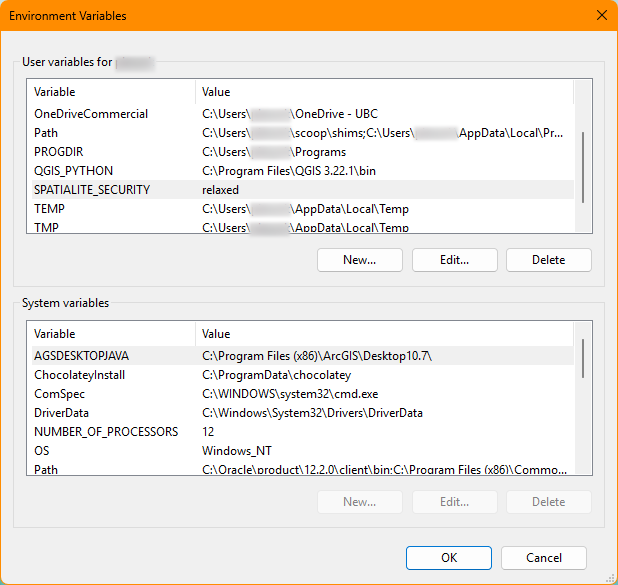
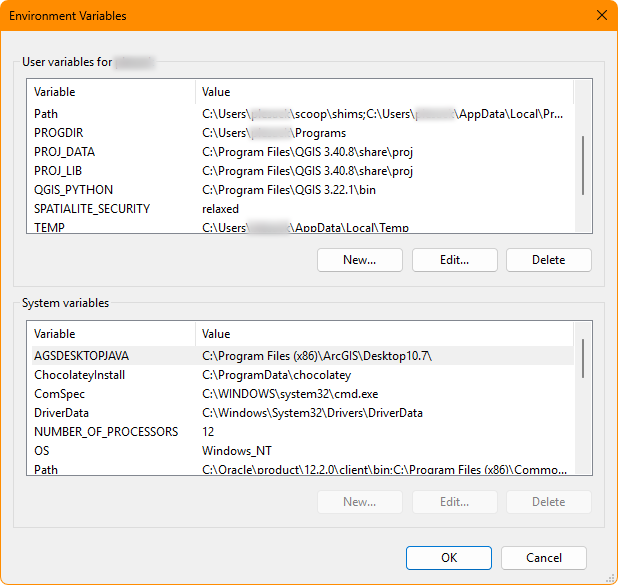
Incremental update

diff --git a/docs/projections.md b/docs/projections.md
@@ -1,0 +1,75 @@
+---
+layout: default
+title: Projections and Spatial References 
+nav_order: 12
+---
+# The earth is not flat 
+
+Although the earth is round(ish), the way Spatialite (and really almost all geographic software works) is by calculating things in (largely) two dimensions. This means that the sphere is flattened out, like taking an orange, unpeeling it (technically an optional step), and making it flat. This has an effect on calculations, because doing this means that not all of distance, area and shape can be preserved at the same time. Differences may be negligible if you're examining small areas, but much more pronounced for large areas. 
+
+The correspondence between the points on the intact orange and and the flattened orange defines the projection/spatial reference system.
+
+## Displaying and working with projections
+
+You can see what projection your data layer has by a simple commmand. "SRID" seems an unintuitive abbreviation until you realize it stands for "spatial reference identification".
+
+
+```sql
+--Show the projection of the layer
+SELECT SRID(geom) FROM prop_parcel_polygons LIMIT 4;
+```
+
+You will see that it is technically possible to store each piece of data in a different projection. Just because you can, does not mean you *should*. The overwhelming majority of data sets will have the same projection for each piece of data, at least within a single table.
+
+There are many (many) map projections. This is a fine source of reference: [EPSG definitions](https://spatialreference.org){:target="_blank"}. It's not exhaustive, because it's possible to define your own projections too.
+
+{: .important}
+If you need to transform your coordinate systems, you *must* have a table called **spatial_ref_sys**. If you don't have that table, the transformations won't work.
+
+If this doesn't work check to see if the spatial_ref_sys  table is there. It probably isn't. Then you must create it!
+
+Thankfully, this is easy.
+```sql
+select InitSpatialMetadata();
+```
+The function creates any necessary tables, but they won't be visible in the schema viewer until you save and reopen the database. But it will still work even if the tables are not not visible. You can verify that the command worked by seeing if the tables are present, because they will be listed in the (hidden by default) `sqlite_master` table:
+
+Without the spatial metadata, coordinate transformations will not work!
+
+`select * from sqlite_master where name like '%spatial%'`
+
+### Why projections are extremely important.
+
+If you've never used map projections before, you may be scratching your head by now as to what this really means. Let's use a simple ecample of why projections matter.
+
+* Your GeoPackage comes with data in a specific projection. The example above using SRID() produced a value of 3005, which corresponds to [BC Albers Projection](https://spatialreference.org/ref/epsg/3005/){:target="_blank"}. If you look at that page, you'll see that the units used (UoM) are metres.
+
+* Imagine you have another set of data which you have imported. This set has latitude and longitude points. This type of data is "unprojected", meaning it gives spherical coordinates. While there are many unprojected coordinate systems, most commonly this data is in [WGS 84 (EPSG:4326)](https://spatialreference.org/ref/epsg/4326/){:target="_blank"}. The units of measure are degrees.
+
+If you want to relate spatial attributes between layers, they need to use the same frame of reference, otherwise the results may be meaningless, "This school is 20 degrees away". In a GIS application like, say, QGIS, coordinate transformations are often done automatically. But you are not using GIS software, so you have to do it yourself. Fortunately, this is not particularly difficult to do. 
+
+```sql
+-- Reproject geometry to EPSG:4326 (WGS 84) 
+SELECT transform(castAutomagic(geom), 4236) FROM prop_parcel_polygons LIMIT 4;
+```
+
+This will transform the geometry form one projection to another. When you run this query, you can't tell though, because it's just outputting a binary blob. But trust me, you have. But trust is in short supply these days.
+
+```sql
+--Verify that your transformation worked
+SELECT x(transform(centroid(castAutomagic(geom)), 4236)) FROM prop_parcel_polygons LIMIT 10
+```
+
+You may note the "centroid" portion. The parcel polygons are, well, polygons, so they don't have single x (or longitude) value. This demonstration took the x-value of the centre point. And if if still doesn't make any sense the [queries](queries.md) page goes into more detail.
+
+{: .important}
+>There are many ways to flatten an orange. Similarly, there are just as many ways to create a map projection. When you're working with different sets of data, you should ensure that they all use the same projection, because if they don't, any calculations may be off. Everyone should flatten their oranges in the same way.
+>
+>Map projections are a large and complex subject, but if you just remember that everything should have the same frame of reference you've taken the hardest, largest step.
+
+### Bonus section
+
+Not all analyses take place on the earth, and even non-terrestrial objects have projections. Because it's possible to define your own projections if you are so inclined, the number of sources of potential errors are limitless. This is why data science consists of largely of banging your head into the corner of a desk.
+
+
+

diff --git a/docs/premade_geopackages.md b/docs/premade_geopackages.md
@@ -4,6 +4,8 @@ title: Using DB Browser with premade GeoPackages
 nav_order: 10
 ---
 
+# Using premade GeoPackages
+
 We will first start off by understanding how to use an already existing GeoPackage database. This is not a tutorial for the [DB Browser](https://sqlitebrowser.org) interface; it assumes you can use the interface for basic operations like entering SQL, etc. All of the functions are available via reasonably obvious buttons or through menus.
 
 *1*{: .circle .circle-blue} Open an existing geopackage database with File/Open; the images and examples in this tutorial use a geopackage called `property-parcel-polygons.gpkg`, which, if you have cloned the Github repository, is at `src/data`.
@@ -64,38 +66,6 @@ SELECT GetGpkgMode(), GetGpkgAmphibiousMode();
 ```
 Generally speaking, start with enableGpkgMode() to ensure maximum compatibility. Over the course of time, you may find that pure GeoPackage mode can't be enabled. This is because of the intermingling of functions between Spatialite and the Geopackage standard. It's not an enormous problem, and you can enable the amphibious mode if you have to and things will still work just fine.
 
-Find the projection of your data:
-
-```sql
---Show the projection of the layer
-SELECT SRID(geom) FROM prop_parcel_polygons LIMIT 4;
-```
-
-There are many (many) map projections. This is a fine source of reference: [EPSG definitions](spatialreference.org). It's not exhaustive, because it's possible to define your own projections too.
-
-{: .important}
-If you need to transform your coordinate systems, you *must* have a table called **spatial_ref_sys**. If you don't have that table, the transformations won't work.
-
-If this doesn't work check to see if the spatial_ref_sys  table is there. It probably isn't. Then you must create it!
-
-Thankfully, this is easy.
-```sql
-select InitSpatialMetadata();
-```
-The function creates any necessary tables, but they won't be visible in the schema viewer until you save and reopen the database. But it will still work even if the tables are not not visible. You can verify that the command worked by seeing if the tables are present, because they will be listed in the (hidden by default) `sqlite_master` table:
-
-Without the spatial metadata, coordinate transformations will not work!
-
-`select * from sqlite_master where name like '%spatial%'`
-
-
-Why? Discussion of coordinate systems, especially WGS-84 and lat/long
-
-In a GIS application, this is normally built-in to the software. But you are not using GIS software.
-
-```sql
--- Reproject geometry to EPSG:4326 (WGS 84) 
-SELECT transform(castAutomagic(geom), 4236) FROM prop_parcel_polygons;
-```
-
+{: .note}
+This is actually the case with the sample database; if you try you will see that GetGpkgMode always returns 0. This is because it was laboriously converted to a GeoPackage manually for the purposes of this tutorial.
 

diff --git a/docs/queries.md b/docs/queries.md
@@ -3,17 +3,46 @@ layout: default
 title:  Queries part 1 
 nav_order: 15 
 ---
-## Basic queries
-Basic example
+# Basic queries
+
+Technically, the commands from  [projections](projections.md) page constitute a SQL query. But as queries go, they didn't produce a lot of data that would be useful in a real-life situation besides verifying that the software workd. 
+
+A SQL query is normally designed to extract some sort of pertinent information from your collection of data. SQL is somewhat like natural language, which means, in practice, that it's not actually natural language but close enough that errors are hard to find because of your order word.
+
+If you have no knowledge of SQL, you may want to have a look at this [SQL tutorial](https://www.w3schools.com/sql/default.asp). These and following sections will mostly focus on Spatialite/GeoPackage specific language or less-common SQL.
+
+## A very basic query
+
+Here's a somewhat useful query that shows the latitude of parcels.
 
 ```sql
 /*
 Select the centroid points of parcels and
 return only the longitudes as degrees
 */
-SELECT x(centroid(transform(castautomagic(geom),4326))) AS long
+SELECT X(Centroid(Transform(CastAutomagic(geom),4326))) AS long
 FROM prop_parcel_polygons LIMIT 3;
 ```
+
+Let's examine this in a little more detail. SQL, like written English, is evaluated from left to write. But because this is a computer language, not always.
+
+The key here is `X(Centroid(Transform(CastAutomagic(geom),4326)))`. This is a set of Spatialite functions all nested within each other. It's important to remember that the order of operations inside functions is from the inside out. That is, in this order
+
+* CastAutomagic()
+* Transform()
+* Centroid()
+* X()
+
+
+CastAutomagic transforms the geometry so that it will work *regardless* of whether it's GeoPackage geometry or Spatialite geometry. That output is passed to Transform, which converts it EPSG:4326 projection (WGS 84, or latitude/longitude unprojected data). That is then passed to the Centroid function, which calculates the Centroid or centre point of the polygon. Finally, the x dimension (or longitude) is extracted from the centroid.
+
+Next is **AS**, which is your friend while using Spatialite. The AS clause will rename the column to **long**, instead of using its default value of **X(Centroid(Transform(CastAutomagic(geom),4326)))**, which I think we can all agree is a terrible name for a column.
+
+X(Centroid(Transform(CastAutomagic(geom),4326)))
+
+
+
+
 
 Order of operations
 Discuss

diff --git a/docs/faq_troubleshooting.md b/docs/faq_troubleshooting.md
@@ -1,0 +1,35 @@
+---
+layout: default
+title: FAQ & Troubleshooting 
+nav_order: 35 
+---
+
+# Frequently asked questions & troubleshooting
+
+### My query apparently runs without error, but the window displays no results
+
+
+Even if Spatialite appears correctly installed, (ie, the query `SELECT spatialite_version() AS spatialite_version, HasGeoPackage() AS has_gpkg;` produces a result), there may still be a cleverly hidden problem.
+
+This can happen if the **proj** library, which is responsible for data projection, is is not installed or not being detected correctly.
+
+You can find out if this is the problem by going to the SQL Log and looking at the error log (you can click on the image to see it full size).
+
+[![Proj error](assets/images/proj_error.png)](assets/images/proj_error.png){:target="_blank"}
+
+If you see something like `PROJ reports "proj_create: no database context specified"`, this means that DB Browser is not finding **proj**.
+
+While how to fix this varies by system, the problem most often occurs on Windows.
+
+The fix:
+
+* Ensure that **proj** is [installed correctly](https://proj.org/en/stable/install.html). 
+
+* You may also (and *definitely* for Windows) need to have the **PROJ_LIB**  and **PROJ_DATA** environment variables set to the directory which contains **proj**. This is [usually] the dirctory which contains the file *proj.db*.
+
+Use whatever method you like to find that file, and then set the environment variables to point at that directory.
+
+{: .note} 
+If you have QGIS installed, the **proj** directory is already available to you, at _[QGIS Installation Directory]/share/proj_.
+
+A discussion of this (although not related to this specific problem) is available here: <https://github.com/pyproj4/pyproj/discussions/1262>{:target="_blank"}

diff --git a/docs/installation/linux.md b/docs/installation/linux.md
@@ -21,11 +21,14 @@ Use the terminal to search for **spatialite** and **librasterlite2**
 Install **libspatialite** and determine where it is. How to do this is left as an exercise for the reader.  
 
 *3a*{: .circle .circle-blue}
+Install **proj** as outlined in the [installation instructions](https://proj.org/en/stable/install.html){:target="_blank"}. If necessary, update **PROJ_DATA** and **PROJ_LIB** environment variables.
+
+*3b*{: .circle .circle-blue}
 Optional raster support.  Install **librasterlite2**
 
 
 *4*{: .circle .circle-blue}
-Add extensions. In DB Browser for SQLite, go to Preferences/Extensions. Under _Select extensions to load for every database_, select the puzzle piece with the plus sumbyl (the top icon).
+Add extensions. In DB Browser for SQLite, go to Preferences/Extensions. Under _Select extensions to load for every database_, select the puzzle piece with the plus symbol (the top icon).
 
 You will need to navigate to `mod_spatialite.so` (or some variant of this). These files are usually installed somewhere in  `/lib`.
 
@@ -37,7 +40,7 @@ Where those will be will be dependent on the architecture of your system.
 
 Make sure to Save.
 
-*3a*{: .circle .circle-blue}
+*4a*{: .circle .circle-blue}
 Optional: To set DB Browser to open GeoPackage files by default:
 
 * Go to Preferences/General/**DB File Extensions** near the bottom of the window. Select **Manage**  
@@ -49,7 +52,7 @@ Optional: To set DB Browser to open GeoPackage files by default:
 * When it looks like the above, hit OK.
 * Save all of your changes.
 
-*3b*{: .circle .circle-blue}
+*4b*{: .circle .circle-blue}
 Optional: relax the security when you run DB Browser.  
 
 {: .important}

diff --git a/docs/installation/windows.md b/docs/installation/windows.md
@@ -24,8 +24,14 @@ Add extensions. In DB Browser for SQLite, go to Preferences/Extensions. Under _S
 
 For rasterlite support, do the same thing with the rasterlite file (which you laboriously compiled), which will (probably) be called something like `mod_rasterlite2.dll`.
 
+*4*{: .circle .circle-blue}
+Install **proj**: Installation instructions are available here: <https://proj.org/en/stable/install.html>{:target="_blank"}
+ 
+
 {: .important}
-**You must add the path to the dll to the as part of the `PATH` environment variable**. Otherwise it won't load properly (see below). Follow the same procedure as below, but append the path to the dll directory to the end of your `PATH`. **Do not delete any of the other paths**.
+>**You must add the path to the spatialite/rasterlite dll files to the as part of the `PATH` environment variable**. Otherwise it won't load properly (see below). Follow the same procedure as below, but append the path to the dll directory to the end of your `PATH`. **Do not delete any of the other paths**.
+>
+>You *must also* add the paths to the directory containing **proj.db** in *two* environment variables, **PROJ_DATA** and **PROJ_LIB**.
 
 *3a*{: .circle .circle-blue}
 Optional: To set DB Browser to open GeoPackage files by default:

diff --git a/docs/installation/macos.md b/docs/installation/macos.md
@@ -12,7 +12,6 @@ Your life will be greatly simplified if you use [homebrew](https://brew.sh). The
 *1*{: .circle .circle-blue}
 Install DB Browser for SQLite: `brew install --cask sqlite-browser`.
 
-
 *2*{: .circle .circle-blue}
 Install **libspatialite**: `brew install libspatialite`.
 
@@ -31,7 +30,10 @@ For rasterlite support, do the same thing with the rasterlite file.
 {: .important}
 If you update the libraries (with `brew update`, for example) you may need to update these paths as well.
 
-*3a*{: .circle .circle-blue}
+*4*{: .circle .circle-blue}
+Install **proj**: `brew install proj`.
+
+*4a*{: .circle .circle-blue}
 Optional: To set DB Browser to open GeoPackage files by default:
 
 * Go to Preferences/General/**DB File Extensions** near the bottom of the window. ![DB Browser General Preferences](../assets/images/mac_db_browser_general_prefs.png)
@@ -43,7 +45,7 @@ Optional: To set DB Browser to open GeoPackage files by default:
 * On the subsequent screen, hit Save.
 
 
-*3b*{: .circle .circle-blue}
+*4b*{: .circle .circle-blue}
 Optional: relax the security when you run DB Browser. 
 
 {: .important} 
